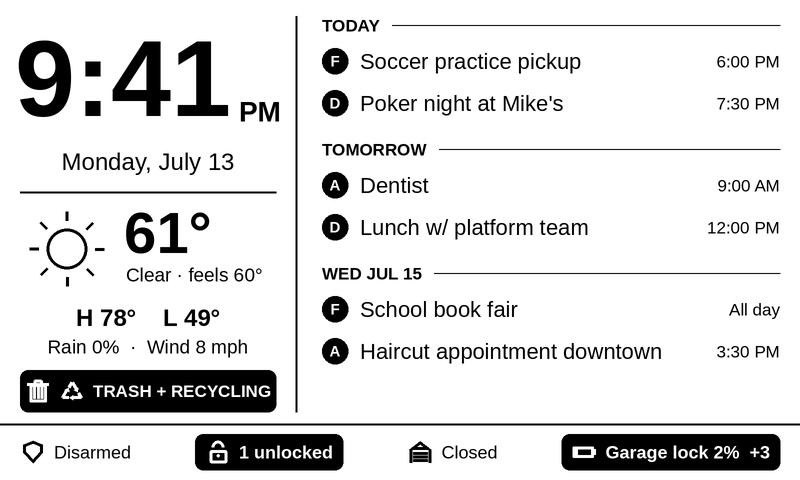
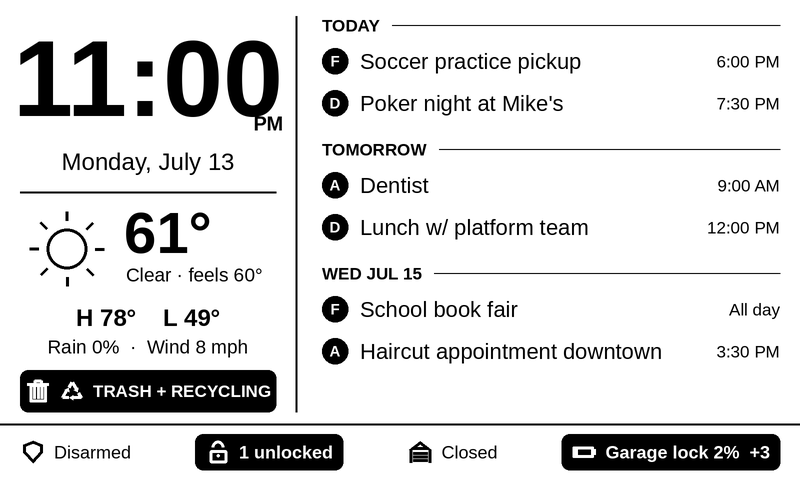
Clock: center time alone, tuck AM/PM under right edge
Roboto digits are equal-width, so 11:00 PM side-by-side overflowed the
296px column into the vertical rule. Centering the time alone (worst
case 278px) and dropping AM/PM to 20pt under the clock's right edge
keeps the 108pt clock at all hours. Mockup updated to match, sample
time set to the worst case.

Changed region(s): [[0.0, 0.0625, 0.375, 0.2812]]

diff --git a/mockup/mockup.py b/mockup/mockup.py
@@ -15,7 +15,7 @@ from PIL import Image, ImageDraw, ImageFont
 # Values pulled from live HA state on 2026-07-13 where possible.
 
 DATA = {
-    "time": "9:41",
+    "time": "11:00",
     "ampm": "PM",
     "date": "Monday, July 13",
     "weather": {
@@ -259,14 +259,15 @@ def draw_left_column(c):
     w = DATA["weather"]
     colc = LEFT_W / 2
 
-    # clock
+    # clock (centered alone; AM/PM tucked under its right edge so the
+    # worst-case "11:00" still clears the column)
     f_clock = font(108, bold=True)
-    f_ampm = font(28, bold=True)
+    f_ampm = font(20, bold=True)
     tw = c.text_w(DATA["time"], f_clock)
-    aw = c.text_w(" " + DATA["ampm"], f_ampm)
-    x0 = colc - (tw + aw) / 2
+    x0 = colc - tw / 2
     c.text((x0, 18), DATA["time"], f_clock)
-    c.text((x0 + tw, 96), " " + DATA["ampm"], f_ampm)
+    aw = c.text_w(DATA["ampm"], f_ampm)
+    c.text((x0 + tw - aw, 112), DATA["ampm"], f_ampm)
 
     # date
     c.text((colc, 148), DATA["date"], font(24), anchor="ma")